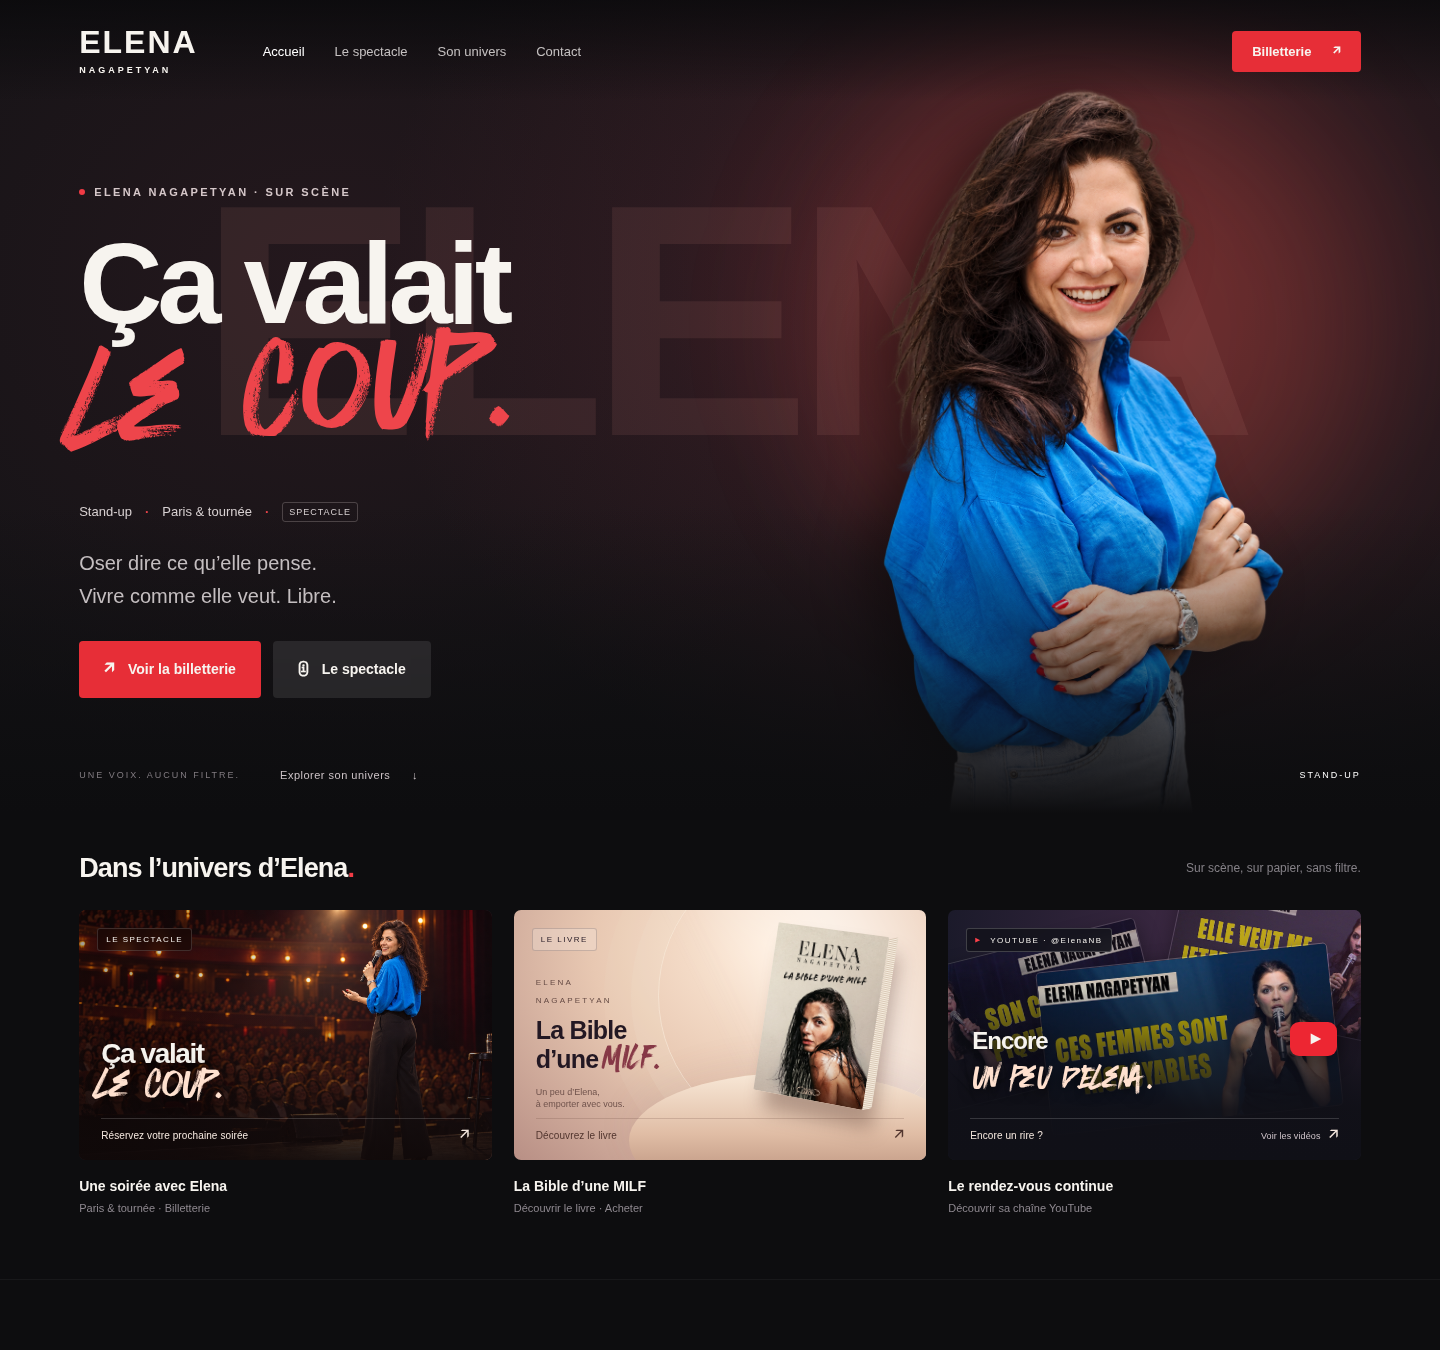
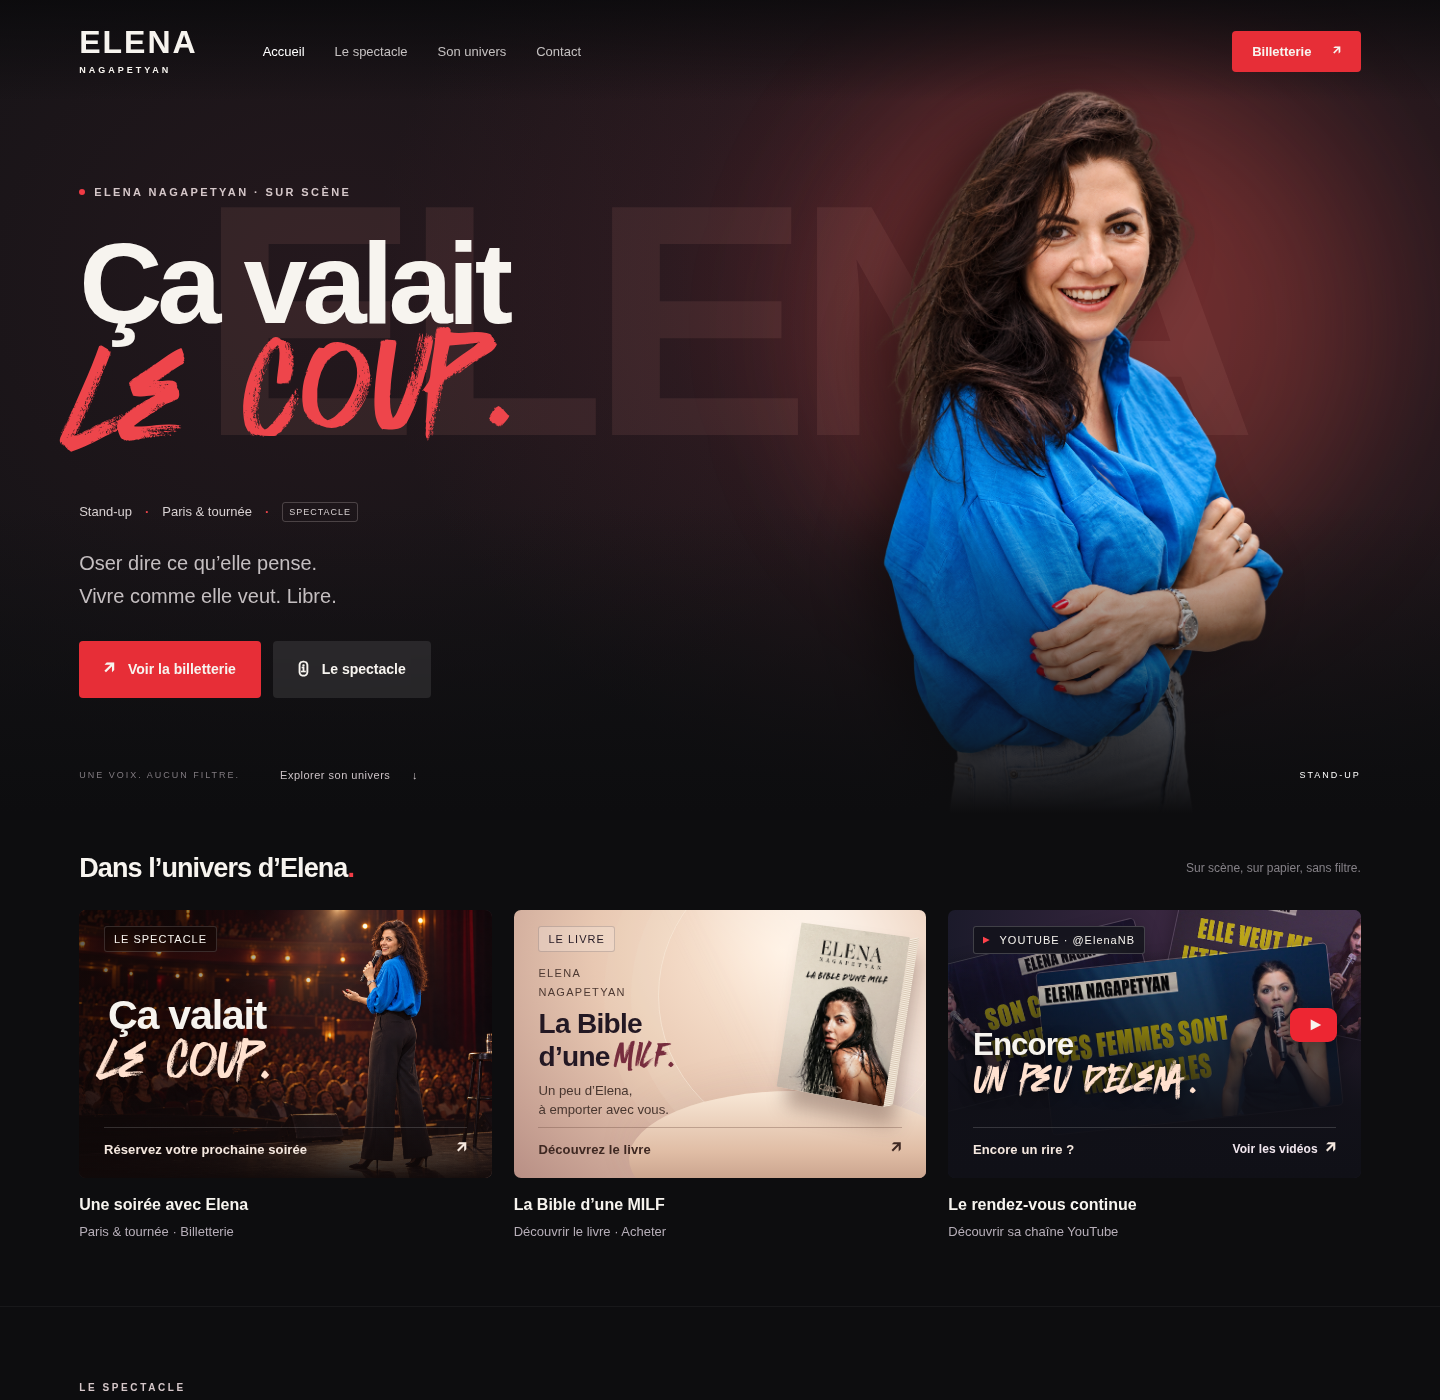
[Sol · GPT-6 · 19/09/2026] Agrandir les textes et équilibrer les cartes

diff --git a/site/index.html b/site/index.html
@@ -1,10 +1,10 @@
 <!doctype html>
-<html lang="fr"><head><meta charset="utf-8"><meta name="viewport" content="width=device-width,initial-scale=1"><meta name="robots" content="noindex,nofollow"><meta name="description" content="Une proposition créative autour de l’univers d’Elena Nagapetyan."><title>Elena — Ça valait le coup · Concept</title><link rel="stylesheet" href="style.css?v=balance-7"></head>
+<html lang="fr"><head><meta charset="utf-8"><meta name="viewport" content="width=device-width,initial-scale=1"><meta name="robots" content="noindex,nofollow"><meta name="description" content="Une proposition créative autour de l’univers d’Elena Nagapetyan."><title>Elena — Ça valait le coup · Concept</title><link rel="stylesheet" href="style.css?v=readability-8"></head>
 <body>
 <a class="skip" href="#spectacle">Aller au contenu</a>
 <header><a class="brand" href="#accueil" aria-label="Elena, accueil">ELENA<span>NAGAPETYAN</span></a><nav aria-label="Navigation principale"><a class="active" href="#accueil">Accueil</a><a href="#spectacle">Le spectacle</a><a href="#univers">Son univers</a><a href="#contact">Contact</a></nav><a class="tickets" href="https://linktr.ee/elenanb" target="_blank" rel="noopener noreferrer">Billetterie <span>↗</span></a></header>
 <main><section class="hero" id="accueil"><div class="glow"></div><div class="backword" aria-hidden="true">ELENA</div><img class="portrait" src="assets/elena-hd.png" alt="Elena Nagapetyan" fetchpriority="high"><div class="hero-shade"></div><div class="hero-content"><p class="eyebrow"><span></span> ELENA NAGAPETYAN · SUR SCÈNE</p><h1><span>Ça valait</span><br><em>le coup.</em></h1><div class="metadata"><span>Stand-up</span><b>·</b><span>Paris & tournée</span><b>·</b><span class="tag">SPECTACLE</span></div><p class="intro">Oser dire ce qu’elle pense.<br>Vivre comme elle veut. Libre.</p><div class="actions"><a class="button primary" href="https://linktr.ee/elenanb" target="_blank" rel="noopener noreferrer"><span>↗</span> Voir la billetterie</a><a class="button secondary" href="#spectacle"><span>ⓘ</span> Le spectacle</a></div></div><div class="hero-bottom"><span>UNE VOIX. AUCUN FILTRE.</span><a href="#univers">Explorer son univers <span>↓</span></a><span class="index">STAND-UP</span></div></section>
-<section class="catalog section" id="univers"><div class="section-heading"><h2>Dans l’univers d’Elena<span>.</span></h2><span>Sur scène, sur papier, sans filtre.</span></div><div class="cards"><a class="card stage" href="https://linktr.ee/elenanb" target="_blank" rel="noopener noreferrer"><div class="card-art"><span class="pill">LE SPECTACLE</span><img class="scene-photo" src="assets/elena-scene.png" alt="Illustration générée d’Elena debout sur scène face à une salle de spectacle" loading="lazy"><span class="scene-shade" aria-hidden="true"></span><div class="card-title">Ça valait<br><em>le coup.</em></div><span class="card-cta">Réservez votre prochaine soirée <span aria-hidden="true">↗</span></span></div><div class="card-caption"><h3>Une soirée avec Elena</h3><p>Paris & tournée · Billetterie</p></div></a><a class="card book" href="https://www.interforum.fr/Affiliations/accueil.do?refLivre=9782749964133&amp;refEditeur=132&amp;type=P" target="_blank" rel="noopener noreferrer"><div class="card-art"><span class="pill">LE LIVRE</span><span class="book-orbit" aria-hidden="true"></span><span class="book-plinth" aria-hidden="true"></span><div class="book-copy"><span>ELENA<br>NAGAPETYAN</span><strong>La Bible<br>d’une <em>MILF.</em></strong><small>Un peu d’Elena,<br>à emporter avec vous.</small></div><div class="book-object"><img src="assets/livre-couverture.jpg" alt="Couverture originale de La Bible d’une MILF, Elena Nagapetyan, éditions Michel Lafon" loading="lazy"></div><span class="card-cta">Découvrez le livre <span aria-hidden="true">↗</span></span></div><div class="card-caption"><h3>La Bible d’une MILF</h3><p>Découvrir le livre · Acheter</p></div></a><a class="card video" href="https://www.youtube.com/@ElenaNB" target="_blank" rel="noopener noreferrer"><div class="card-art"><div class="youtube-mosaic" aria-hidden="true"><img class="yt-back" src="assets/youtube-2.jpg" alt="" loading="lazy"><img class="yt-side" src="assets/youtube-3.jpg" alt="" loading="lazy"><img class="yt-front" src="assets/youtube-1.jpg" alt="" loading="lazy"></div><span class="video-shade" aria-hidden="true"></span><span class="pill youtube-label"><span>▶</span> YOUTUBE · @ElenaNB</span><span class="play" aria-hidden="true">▶</span><div class="video-type">Encore<br><em>un peu d’Elena.</em></div><span class="card-cta">Encore un rire ? <span class="cta-action">Voir les vidéos</span> <span aria-hidden="true">↗</span></span></div><div class="card-caption"><h3>Le rendez-vous continue</h3><p>Découvrir sa chaîne YouTube</p></div></a></div></section>
+<section class="catalog section" id="univers"><div class="section-heading"><h2>Dans l’univers d’Elena<span>.</span></h2><span>Sur scène, sur papier, sans filtre.</span></div><div class="cards"><a class="card stage" href="https://linktr.ee/elenanb" target="_blank" rel="noopener noreferrer"><div class="card-art"><span class="pill">LE SPECTACLE</span><img class="scene-photo" src="assets/elena-scene.png" alt="Illustration générée d’Elena debout sur scène face à une salle de spectacle" loading="lazy"><span class="scene-shade" aria-hidden="true"></span><div class="card-title">Ça valait<br><em>le coup.</em></div><span class="card-cta">Réservez votre prochaine soirée <span aria-hidden="true">↗</span></span></div><div class="card-caption"><h3>Une soirée avec Elena</h3><p>Paris & tournée · Billetterie</p></div></a><a class="card book" href="https://www.interforum.fr/Affiliations/accueil.do?refLivre=9782749964133&amp;refEditeur=132&amp;type=P" target="_blank" rel="noopener noreferrer"><div class="card-art"><span class="pill">LE LIVRE</span><span class="book-orbit" aria-hidden="true"></span><span class="book-plinth" aria-hidden="true"></span><div class="book-copy"><span>ELENA<br>NAGAPETYAN</span><strong>La Bible<br><span>d’une <em>MILF.</em></span></strong><small>Un peu d’Elena,<br>à emporter avec vous.</small></div><div class="book-object"><img src="assets/livre-couverture.jpg" alt="Couverture originale de La Bible d’une MILF, Elena Nagapetyan, éditions Michel Lafon" loading="lazy"></div><span class="card-cta">Découvrez le livre <span aria-hidden="true">↗</span></span></div><div class="card-caption"><h3>La Bible d’une MILF</h3><p>Découvrir le livre · Acheter</p></div></a><a class="card video" href="https://www.youtube.com/@ElenaNB" target="_blank" rel="noopener noreferrer"><div class="card-art"><div class="youtube-mosaic" aria-hidden="true"><img class="yt-back" src="assets/youtube-2.jpg" alt="" loading="lazy"><img class="yt-side" src="assets/youtube-3.jpg" alt="" loading="lazy"><img class="yt-front" src="assets/youtube-1.jpg" alt="" loading="lazy"></div><span class="video-shade" aria-hidden="true"></span><span class="pill youtube-label"><span>▶</span> YOUTUBE · @ElenaNB</span><span class="play" aria-hidden="true">▶</span><div class="video-type">Encore<br><em>un peu d’Elena.</em></div><span class="card-cta">Encore un rire ? <span class="cta-action">Voir les vidéos</span> <span aria-hidden="true">↗</span></span></div><div class="card-caption"><h3>Le rendez-vous continue</h3><p>Découvrir sa chaîne YouTube</p></div></a></div></section>
 <section class="story section" id="spectacle"><div><p class="eyebrow">LE SPECTACLE</p><h2>Assumer ses choix.<br><em>Et en rire.</em></h2></div><div class="story-copy"><p>Ce spectacle raconte le parcours d’une fille qui essaie d’assumer ses choix. Celle qui ose dire ce qu’elle pense et vivre comme elle veut. Libre.</p><a class="text-link" href="https://linktr.ee/elenanb" target="_blank" rel="noopener noreferrer">Retrouver les dates et réserver <span>↗</span></a></div></section>
 <section class="contact section" id="contact"><div><p class="eyebrow">ON RESTE EN CONTACT ?</p><h2>La suite, c’est <em>par ici.</em></h2></div><div class="socials"><a href="https://www.instagram.com/elenanagapetyan_/" target="_blank" rel="noopener noreferrer">Instagram ↗</a><a href="https://www.youtube.com/@ElenaNB" target="_blank" rel="noopener noreferrer">YouTube ↗</a><a href="https://www.facebook.com/p/Elena-Nagapetyan-100076068015422/" target="_blank" rel="noopener noreferrer">Facebook ↗</a></div><a class="email" href="mailto:elena@elenanagapetyan.com">elena@elenanagapetyan.com ↗</a></section>
 </main><footer><a class="brand" href="#accueil">ELENA<span>NAGAPETYAN</span></a><p>Proposition de refonte indépendante · Non officielle<br>Textes issus du site officiel · Portrait et scène recréés par IA.</p><a href="https://www.elenanagapetyan.com/" target="_blank" rel="noopener noreferrer">Site officiel ↗</a><a href="dossier.html">Sources & dossier ↗</a></footer>

diff --git a/site/style.css b/site/style.css
@@ -108,3 +108,33 @@ header,.section,footer{padding-inline:var(--page-gutter)}
  .stage .card-title{font-size:31px}.stage .card-title em{font-size:40px}
  .video .video-type{font-size:27px}.video .video-type em{font-size:33px}
 }
+/* Dimensionner les textes selon la carte, pas selon la largeur de l'écran. */
+.card{container-type:inline-size}
+.card .card-art{height:clamp(260px,65cqw,310px);min-height:0;aspect-ratio:auto}
+.card .pill{font-size:11px;letter-spacing:1px;padding:6px 9px;top:16px;left:6%}
+.stage .card-title{left:7%;top:49%;bottom:auto;width:57%;transform:translateY(-50%);font-size:clamp(32px,10cqw,48px);line-height:1.08;letter-spacing:-1.3px}
+.stage .card-title em{font-size:1.14em;white-space:nowrap}
+.stage .scene-shade{background:linear-gradient(0deg,#100909f2,transparent 40%),linear-gradient(90deg,#100909a6 0%,#10090959 40%,transparent 70%)}
+.card .card-cta{left:6%;right:6%;bottom:17px;font-size:13px;font-weight:600;min-height:34px;padding-top:11px;line-height:1.4}
+.card .cta-action{font-size:12px;color:#f1e6ee}
+.card .card-caption h3{font-size:16px}.card .card-caption p{font-size:13px;line-height:1.5;color:#b6aeb8}
+.book .book-copy{left:6%;top:23%;width:45%}
+.book .book-copy>span{font-size:11px;line-height:1.45;letter-spacing:1.3px;color:#4d3932}
+.book .book-copy strong{font-size:clamp(25px,6.8cqw,32px);line-height:1.08;margin:12px 0;letter-spacing:-.7px}
+.book .book-copy strong>span{white-space:nowrap}
+.book .book-copy em{font-size:1.14em;color:#772d3e}
+.book .book-copy small{font-size:clamp(13px,3.2cqw,15px);line-height:1.4;font-weight:500;color:#48362f}
+.book .book-object{right:7%;top:7%;height:63%}
+.book .card-cta{color:#3e2822;border-color:#67443955}
+.video .video-type{left:6%;bottom:76px;font-size:clamp(28px,7.6cqw,35px);line-height:1.12}
+.video .video-type em{font-size:1.13em}
+.video .play{bottom:136px}
+.video .video-shade{background:linear-gradient(0deg,#101017 0%,#101017ed 25%,#10101799 50%,transparent 85%)}
+@container(max-width:330px){
+ .card .pill{font-size:10px}
+ .card .card-cta{font-size:12px}.card .cta-action{font-size:11px}
+ .book .book-copy strong{font-size:23px}.book .book-copy>span{font-size:10px}.book .book-copy small{font-size:12px}
+ .book .book-object{right:4%;height:57%;top:10%}
+ .stage .card-title{font-size:30px}
+}
+.book .book-copy{top:20%}.book .book-copy strong{margin:8px 0}

diff --git a/docs/VALIDATION.md b/docs/VALIDATION.md
@@ -12,3 +12,7 @@ Intervention : Sol (GPT-6). Préparation d’une distribution publique statique,
 - Contrôles précédents des interactions : appel de vibration unique de 8 ms au toucher simulé ; aucun appel à la souris, en réduction des animations ou sans API disponible. Sensation matérielle non testée.
 
 Aucun message envoyé à Elena et aucune modification de son site d’origine.
+
+## Lisibilité des cartes — 19 septembre 2026
+
+Titres dimensionnés selon la largeur de chaque carte, titre spectacle recentré verticalement dans sa moitié gauche, accroches et CTA agrandis et plus contrastés. Contrôles Chromium à 320, 390, 620, 768, 1024, 1440, 1920 et 3440 px : aucun débordement horizontal, accroche du livre séparée du lien d’achat. Captures et kit de contact régénérés. L’archive Docker v1.0.0 reste le snapshot initial ; les sources Docker du dépôt suivent la nouvelle démo.
